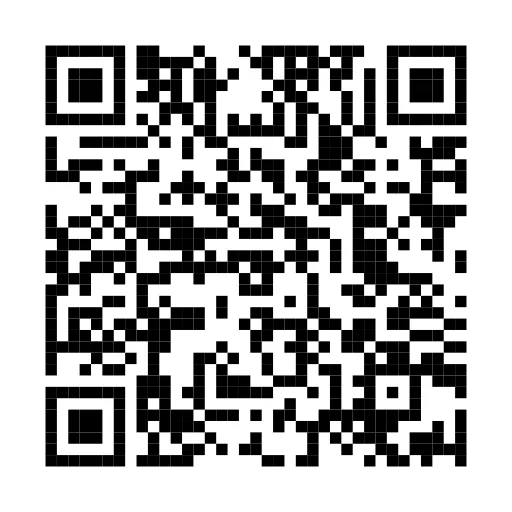
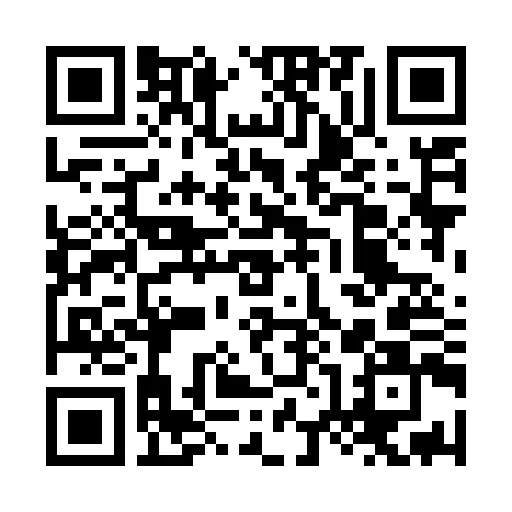
fix: remove gray borders around QR code modules by disabling antialiasing
Add `RequiresAntialiasing` property to `ModuleShape` base class
- Set `RequiresAntialiasing = false` for `RectangleModuleShape` to prevent gray borders
- Set `RequiresAntialiasing = true` for `CircleModuleShape` and `RoundedRectangleModuleShape` to maintain smooth edges

Update `QRCodeRenderer` to use shape-specific antialiasing settings via `shape.RequiresAntialiasing`
Keep antialiasing enabled for `ImageTextIconShape` text rendering to preserve readability

Antialiasing on rectangular modules causes semi-transparent pixels at edges,
creating visible gray borders when rendered on white backgrounds. By disabling
antialiasing for rectangles while keeping it for curved shapes (circles and
rounded rectangles), we achieve crisp QR codes without visual artifacts while

diff --git a/src/SkiaSharp.QrCode/Image/ModuleShape.cs b/src/SkiaSharp.QrCode/Image/ModuleShape.cs
@@ -6,6 +6,11 @@ namespace SkiaSharp.QrCode.Image;
 public abstract class ModuleShape
 {
     /// <summary>
+    /// Gets whether this shape requires antialiasing for smooth rendering.
+    /// </summary>
+    public abstract bool RequiresAntialiasing { get; }
+
+    /// <summary>
     /// Draw a module at the specified location.
     /// </summary>
     /// <param name="canvas">The canvas to render on.</param>
@@ -23,6 +28,11 @@ public sealed class RectangleModuleShape : ModuleShape
     /// Gets the default instance.
     /// </summary>
     public static readonly RectangleModuleShape Default = new();
+
+    /// <summary>
+    /// Disable antialiasing for rectangles.
+    /// </summary>
+    public override bool RequiresAntialiasing => false;
 
     // Enforce singleton pattern
     private RectangleModuleShape() { }
@@ -43,6 +53,11 @@ public sealed class CircleModuleShape : ModuleShape
     /// Gets the default instance.
     /// </summary>
     public static readonly CircleModuleShape Default = new();
+
+    /// <summary>
+    /// Enable antialiasing for circles. It require smooth edges.
+    /// </summary>
+    public override bool RequiresAntialiasing => true;
 
     // Enforce singleton pattern
     private CircleModuleShape() { }
@@ -69,6 +84,12 @@ public sealed class RoundedRectangleModuleShape : ModuleShape
 
     // Gets the corner radius as a percentage of the smaller dimension (width or height).
     private readonly float _cornerRadiusPercent;
+
+    /// <summary>
+    /// Enable antialiasing for circles. It require smooth edges.
+    /// </summary>
+    public override bool RequiresAntialiasing => true;
+
 
     /// <summary>
     /// Initializes a new instance with the specified corner radius.

diff --git a/samples/ConsoleApp/Program.cs b/samples/ConsoleApp/Program.cs
@@ -287,11 +287,10 @@ Console.WriteLine("""
         Size = 24,
         Typeface = SKTypeface.FromFamilyName("Arial", SKFontStyle.Bold)
     };
-
     using var paint = new SKPaint
     {
         Color = SKColors.Black,
-        IsAntialias = true
+        IsAntialias = true, // enable antialiasing for text
     };
 
     var text = "Scan Me!";
@@ -448,7 +447,7 @@ Console.WriteLine("""
             Color = SKColor.Parse("E0E0E0"), // Light gray border
             Style = SKPaintStyle.Stroke,
             StrokeWidth = 3,
-            IsAntialias = true
+            IsAntialias = true, // enable antialiasing for smooth corners
         })
         {
             var borderRect = new SKRoundRect(SKRect.Create(30, 30, canvasSize - 60, canvasSize - 60), r, r);
@@ -460,7 +459,7 @@ Console.WriteLine("""
         {
             Color = SKColors.White,
             Style = SKPaintStyle.Fill,
-            IsAntialias = true
+            IsAntialias = true, // enable antialiasing for smooth corners
         })
         {
             var bgRect = new SKRoundRect(SKRect.Create(30, 30, canvasSize - 60, canvasSize - 60), r, r);
@@ -516,7 +515,7 @@ Console.WriteLine("""
         using (var paint = new SKPaint
         {
             Color = SKColors.OrangeRed,
-            IsAntialias = true
+            IsAntialias = true, // enable antialiasing for text
         })
         {
             var bottomText = "POST SHARED ON " + DateTime.Now.ToString("MMM dd").ToUpper();

diff --git a/samples/ConsoleAppNativeAOT/Program.cs b/samples/ConsoleAppNativeAOT/Program.cs
@@ -33,7 +33,7 @@ var canvas = surface.Canvas;
         Color = SKColor.Parse("E0E0E0"), // Light gray border
         Style = SKPaintStyle.Stroke,
         StrokeWidth = 3,
-        IsAntialias = true
+        IsAntialias = false
     })
     {
         var borderRect = new SKRoundRect(SKRect.Create(30, 30, canvasSize - 60, canvasSize - 60), r, r);
@@ -45,7 +45,7 @@ var canvas = surface.Canvas;
     {
         Color = SKColors.White,
         Style = SKPaintStyle.Fill,
-        IsAntialias = true
+        IsAntialias = false
     })
     {
         var bgRect = new SKRoundRect(SKRect.Create(30, 30, canvasSize - 60, canvasSize - 60), r, r);
@@ -97,7 +97,7 @@ var canvas = surface.Canvas;
     using (var paint = new SKPaint
     {
         Color = SKColors.DarkOrange,
-        IsAntialias = true
+        IsAntialias = false
     })
     {
         var bottomText = "POST SHARED ON " + DateTime.Now.ToString("MMM dd").ToUpper();

diff --git a/src/SkiaSharp.QrCode/QRCodeRenderer.cs b/src/SkiaSharp.QrCode/QRCodeRenderer.cs
@@ -51,7 +51,8 @@ public static class QRCodeRenderer
         }
 
         // Create paint with gradient or solid color
-        using var darkPaint = new SKPaint() { Style = SKPaintStyle.Fill, IsAntialias = true };
+        // disable antialiasing as it cause gray border around each module.
+        using var darkPaint = new SKPaint() { Style = SKPaintStyle.Fill, IsAntialias = shape.RequiresAntialiasing };
 
         // Apply gradient if specified
         if (gradientOptions is not null && gradientOptions.Direction != GradientDirection.None)

diff --git a/src/SkiaSharp.QrCode/Image/IconShape.cs b/src/SkiaSharp.QrCode/Image/IconShape.cs
@@ -121,6 +121,7 @@ public sealed class ImageTextIconShape : IconShape
         // Draw text below the image
         if (!string.IsNullOrEmpty(_text))
         {
+            // enable antialias for better text quality
             using var textPaint = new SKPaint
             {
                 Color = _textColor,
